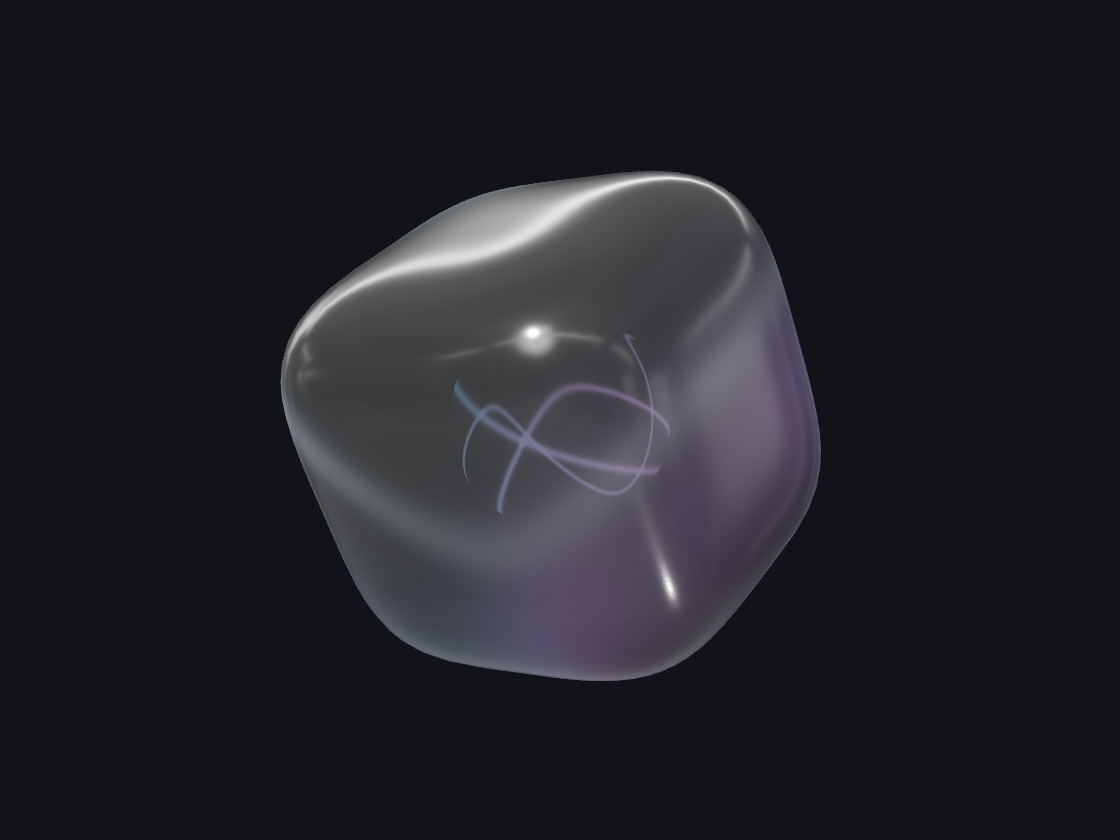
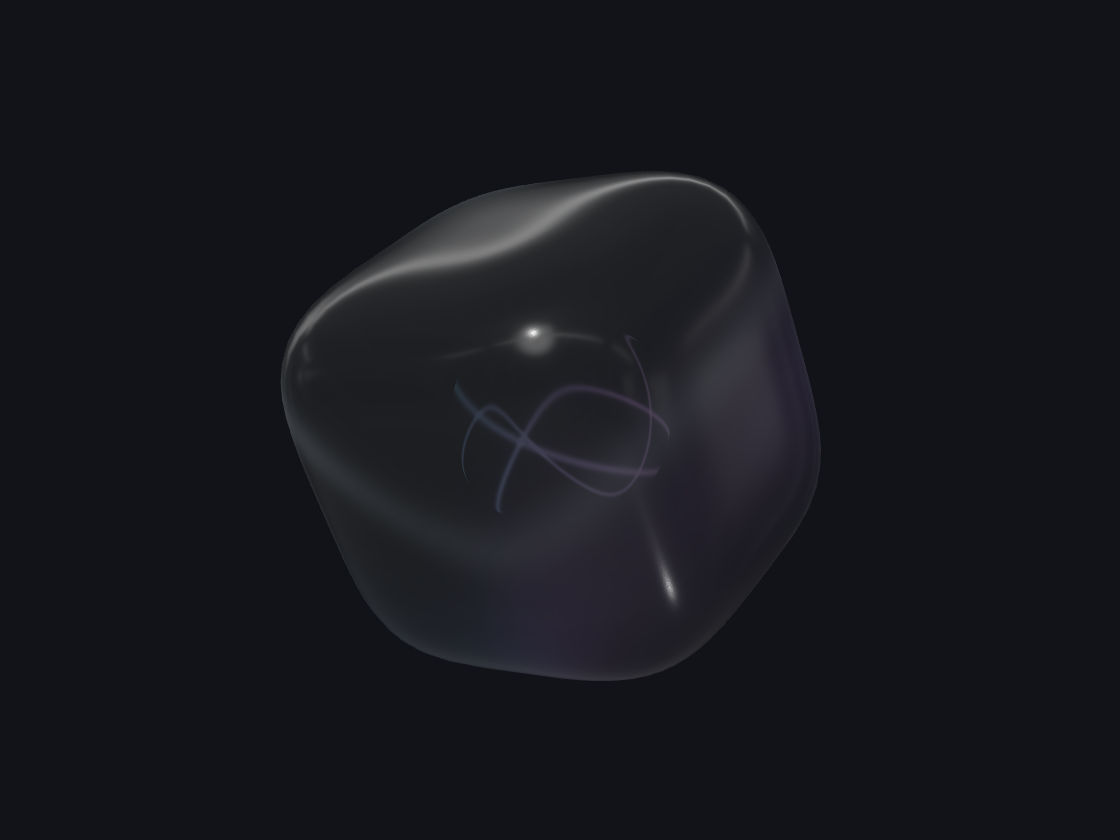
fix: make glass clearer and refresh README previews

Changed region(s): [[0.25, 0.1857, 0.75, 0.8357]]

diff --git a/Tests/TCubeTests/GlassRenderPreviewTests.swift b/Tests/TCubeTests/GlassRenderPreviewTests.swift
@@ -123,7 +123,8 @@ struct GlassRenderPreviewTests {
         let darkCenter = try #require(idleBitmap.colorAt(x: idleBitmap.pixelsWide / 2, y: idleBitmap.pixelsHigh / 2)?.usingColorSpace(.sRGB))
         let lightCenter = try #require(lightBitmap.colorAt(x: lightBitmap.pixelsWide / 2, y: lightBitmap.pixelsHigh / 2)?.usingColorSpace(.sRGB))
         let backdropResponse = ((lightCenter.redComponent - darkCenter.redComponent) + (lightCenter.greenComponent - darkCenter.greenComponent) + (lightCenter.blueComponent - darkCenter.blueComponent)) / 3
-        #expect(backdropResponse > 0.45, "The glass must reveal its backdrop instead of becoming an opaque pearl")
+        print("Glass center backdrop response: \(backdropResponse)")
+        #expect(backdropResponse > 0.70, "The glass center must clearly reveal the backdrop while retaining its silhouette")
         try #require(lightBitmap.representation(using: .png, properties: [:])).write(to: output.appendingPathComponent("soft-body-idle-light.png"))
 
         view.environment.background = .color(galleryBackground)

diff --git a/Sources/TCube/CrystalAppearance.swift b/Sources/TCube/CrystalAppearance.swift
@@ -22,6 +22,8 @@ final class CubeAura {
 
     init(parent: Entity, appearance: CubeAppearance) {
         root.name = "cube-aura"
+        // Fade only optical layers; launcher decals are siblings and stay crisp.
+        root.components.set(OpacityComponent(opacity: 0.25))
         parent.addChild(root)
         if let mesh = Self.mesh {
             var glass = PhysicallyBasedMaterial()

diff --git a/README.md b/README.md
@@ -2,11 +2,13 @@
 
 **English** | [简体中文](README-CN.md)
 
-A floating, softly rounded glass launcher for your favorite Mac apps and folders. Scroll to turn it, hover to reveal your icons, and click to launch.
+A transparent glass launcher that floats on your Mac desktop. Keep favorite apps and folders in one softly rounded shape. Scroll to turn it, hover to reveal your icons, and click to launch.
 
 **macOS 15+ · Swift 6 · AppKit / SwiftUI / RealityKit · No third-party dependencies**
 
 ## Preview
+
+A lighter glass shell lets the desktop show through. Hover to reveal icons that follow its curved surface.
 
 <p align="center">
   <img src="docs/images/cube-hover.png" width="760" alt="T-Cube showing app icons around a softly rounded glass body against a graphite background">
@@ -20,15 +22,16 @@ A floating, softly rounded glass launcher for your favorite Mac apps and folders
 </table>
 
 <details>
-<summary>Watch the hover and light animation</summary>
-<p align="center"><img src="docs/images/cube-motion.gif" width="760" alt="Icons appear on hover while the glass highlights keep moving"></p>
+<summary>Watch idle rotation pause on hover</summary>
+<p align="center"><img src="docs/images/cube-motion.gif" width="760" alt="The cube rotates at rest, pauses and reveals icons on hover, then resumes when the pointer leaves"></p>
 </details>
 
 Native app renders with sample system icons, enlarged for detail. All previews share the same graphite background, camera, and viewport.
 
 ## Features
 
-- **Six groups, four shortcuts each.** Add local apps or folders; empty slots stay blank. A softly rounded glass body with shallower faces replaces sharp edges and separate face plates; icons wrap around its surface, with matching curved hit areas.
+- **Light, transparent glass.** Soft corners, shallow curved faces, subtle reflections, and crisp icons that wrap around the surface.
+- **Six groups, four shortcuts each.** Add local apps or folders; empty slots stay blank. Click areas follow the curved icons.
 - **Free rotation and positioning.** Scroll in either direction; the cube stays where you stop while hovered. Drag with either mouse button to move it.
 - **Quick placement.** Put the cube in any corner or the center of its screen from the menu bar or Appearance settings. Positions save immediately, with room for the menu bar and Dock.
 - **Wandering idle rotation.** Slowly drift through changing directions; hover to stop instantly and leave to resume. Disable it under **Appearance → Dynamic rotation (动态旋转)**. Reduce Motion pauses it automatically.
@@ -39,7 +42,7 @@ Native app renders with sample system icons, enlarged for detail. All previews s
 
 ## Install and run
 
-Current version: **0.12.2**. Use the **master** branch.
+Current version: **0.12.3**. Use the **master** branch.
 
 Running requires macOS 15+. Building requires full Xcode with Swift 6 and the **macOS 27 SDK**. Current local packages target Apple Silicon and use ad-hoc signing; they are not notarized.
 
@@ -50,7 +53,7 @@ bash scripts/build-app.sh
 open build/T-Cube.app
 ```
 
-For a drag-to-install disk image, run `bash scripts/build-dmg.sh`, open `build/T-Cube-0.12.2.dmg`, and drag the app into **Applications**. Quit an existing version before updating and keep its configuration. Build artifacts are not included in the repository; macOS security approvals remain with the user.
+For a drag-to-install disk image, run `bash scripts/build-dmg.sh`, open `build/T-Cube-0.12.3.dmg`, and drag the app into **Applications**. Quit an existing version before updating and keep its configuration. Build artifacts are not included in the repository; macOS security approvals remain with the user.
 
 ### Let an agent install it
 
@@ -66,10 +69,12 @@ Settings open on first launch. Reopen them by right-clicking the cube or using i
 
 1. In **Cube entries (立方体入口)**, assign apps or folders to each face. Finder drag-and-drop is also supported.
 2. In **Appearance (外观)**, choose themes, materials, cycling, and hover size. Click **Apply settings (应用设置)** to save.
-3. To launch directly, disable **Expand faces on click (点击面展开放大)** under **Launch behavior (打开方式)**. Blank areas and empty slots do nothing.
+3. To launch directly, disable **Expand faces on click (点击面展开放大)** under **Launch behavior (打开方式)**, then click **Apply settings (应用设置)**. Blank areas and empty slots do nothing.
+4. Use **Quick placement (快捷位置)** in the menu bar or Appearance to move to a corner or the screen center. Placement applies and saves immediately.
 
 | Action | Result |
 | --- | --- |
+| Hover / leave | Reveal / hide icons; pause / resume idle rotation when enabled |
 | Two-finger horizontal / vertical scroll | Rotate along the corresponding axis; stop without snapping |
 | Mouse wheel / Shift + wheel | Rotate vertically / horizontally |
 | Left- or right-button drag | Move and save the floating position |
@@ -96,9 +101,9 @@ git diff --check
 Regenerate the native previews, including the matching `readme-*` gallery:
 
 ```bash
-env TCUBE_RENDER_PREVIEWS=1 swift test --scratch-path .build/tests --filter GlassRenderPreviewTests
+env TCUBE_RENDER_PREVIEWS=1 swift test --scratch-path .build/tests --filter 'GlassRenderPreviewTests|IconEdgeRenderingTests'
 ```
 
-Files are written to `.build/glass-previews/` using an isolated temporary configuration. Multi-background QA captures are generated separately from the README gallery.
+Files are written to `.build/glass-previews/` using an isolated temporary configuration. Multi-background transparency checks and icon-edge checks are generated separately from the README gallery.
 
 `Sources/CubeCore` owns configuration, geometry, and hit testing; `Sources/TCube` owns windows, rendering, and native UI. See [AGENTS.md](AGENTS.md) for contribution guidelines and [verification records](docs/verification/) for checks and limitations.

diff --git a/README-CN.md b/README-CN.md
@@ -2,11 +2,13 @@
 
 [English](README.md) | **简体中文**
 
-把常用 App 和文件夹放进一个悬浮在桌面的圆润玻璃体。滚动切换六组入口，悬停显示图标，点击打开。
+把常用 App 和文件夹放进一个悬浮在桌面的通透玻璃体。滚动切换六组入口，悬停显示图标，点击打开。
 
 **macOS 15+ · Swift 6 · AppKit / SwiftUI / RealityKit · 无第三方依赖**
 
 ## 效果预览
+
+玻璃外壳、反光与光晕更轻，让桌面背景清晰透出。悬停后，图标沿曲面显示。
 
 <p align="center">
   <img src="docs/images/cube-hover.png" width="760" alt="深石墨色背景下的 T-Cube，圆润透明玻璃体周围展示应用图标">
@@ -20,15 +22,16 @@
 </table>
 
 <details>
-<summary>查看悬停与流光动效</summary>
-<p align="center"><img src="docs/images/cube-motion.gif" width="760" alt="悬停时显示应用图标，玻璃高光持续流动"></p>
+<summary>查看自动旋转与悬停暂停</summary>
+<p align="center"><img src="docs/images/cube-motion.gif" width="760" alt="静置时自动旋转，悬停暂停并显示图标，移出后继续旋转"></p>
 </details>
 
 以上为应用自身的原生渲染，使用系统示例图标并放大展示细节。所有预览统一使用深石墨色背景、相机角度和画面尺寸。
 
 ## 主要功能
 
-- **六组入口，每组四个快捷方式**：支持本地 App 和文件夹，空位留白。外形采用较平缓的弧面与圆角，不强调棱边或六个面；图标贴合曲面，点击区域同步弯曲。
+- **轻薄通透的玻璃外观**：圆角、平缓弧面和柔和反光，图标清晰地贴合表面。
+- **六组入口，每组四个快捷方式**：支持本地 App 和文件夹，空位留白，点击区域与曲面图标一致。
 - **自由旋转与移动**：双向滚动旋转，悬停时滚哪停哪；左右键均可拖动位置。
 - **快捷放置**：从状态栏菜单或「外观 → 快捷位置」一键移到所在屏幕四角或正中央，立即保存，避开菜单栏与 Dock。
 - **空闲自动旋转**：缓慢、平滑地变换方向；移入立即停转，移出继续。在「外观 → 动态旋转」可关闭；系统开启「减少动态效果」时自动暂停。
@@ -39,7 +42,7 @@
 
 ## 安装与运行
 
-当前版本为 **0.12.2**，使用 **master** 分支。
+当前版本为 **0.12.3**，使用 **master** 分支。
 
 运行需要 macOS 15+；源码构建需要完整 Xcode、Swift 6 和 **macOS 27 SDK**。当前本地打包产物面向 Apple Silicon，使用 ad-hoc 签名，尚未公证。
 
@@ -50,7 +53,7 @@ bash scripts/build-app.sh
 open build/T-Cube.app
 ```
 
-需要拖拽安装时，运行 `bash scripts/build-dmg.sh`，打开 `build/T-Cube-0.12.2.dmg`，将应用拖入 **Applications**。更新前先退出旧版，保留原配置。构建产物不随源码提交；系统安全授权由用户确认。
+需要拖拽安装时，运行 `bash scripts/build-dmg.sh`，打开 `build/T-Cube-0.12.3.dmg`，将应用拖入 **Applications**。更新前先退出旧版，保留原配置。构建产物不随源码提交；系统安全授权由用户确认。
 
 ### 让 agent 帮忙安装
 
@@ -66,10 +69,12 @@ open build/T-Cube.app
 
 1. 在「立方体入口」为六个面添加应用或文件夹，也可从 Finder 拖入。
 2. 在「外观」选择主题、材质、轮换与悬停大小，点击「应用设置」保存。
-3. 想直接打开图标：在「打开方式」关闭「点击面展开放大」。空白和空槽不触发操作。
+3. 想直接打开图标：在「打开方式」关闭「点击面展开放大」，再点击「应用设置」保存。空白和空槽不触发操作。
+4. 从状态栏菜单或「外观 → 快捷位置」选择四角或正中央，立即生效并保存。
 
 | 操作 | 效果 |
 | --- | --- |
+| 鼠标移入／移出 | 显示／隐藏图标；自动旋转开启时暂停／继续旋转 |
 | 触控板双指左右／上下滑动 | 沿对应方向旋转，停止后保持姿态 |
 | 鼠标滚轮／Shift＋滚轮 | 上下／左右旋转 |
 | 左键或右键拖动 | 移动悬浮位置并保存 |
@@ -96,9 +101,9 @@ git diff --check
 重新生成原生效果图，包括统一风格的 `readme-*` 图集：
 
 ```bash
-env TCUBE_RENDER_PREVIEWS=1 swift test --scratch-path .build/tests --filter GlassRenderPreviewTests
+env TCUBE_RENDER_PREVIEWS=1 swift test --scratch-path .build/tests --filter 'GlassRenderPreviewTests|IconEdgeRenderingTests'
 ```
 
-输出位于 `.build/glass-previews/`，使用独立临时配置，不改动用户数据。多背景验证图与 README 展示图分别生成。
+输出位于 `.build/glass-previews/`，使用独立临时配置，不改动用户数据。多背景透明度验证、图标边缘检查与 README 展示图分别生成。
 
 `Sources/CubeCore` 管理配置、几何与命中逻辑；`Sources/TCube` 管理窗口、渲染与原生界面。贡献约定见 [AGENTS.md](AGENTS.md)，检查结果与限制见 [验证记录](docs/verification/)。

diff --git a/docs/verification/2026-10-27-clearer-glass.md b/docs/verification/2026-10-27-clearer-glass.md
@@ -1,0 +1,18 @@
+# Clearer glass — 0.12.3 (build 23)
+
+## Change
+
+The optical root now has 0.25 opacity, fading the glass shell, reflection, theme color and inner light together. Launcher decals are siblings of that root and retain their own full opacity. The shallower shape, curved hit areas, rotation, placement and stored configuration are unchanged.
+
+Both READMEs describe the lighter appearance and latest interactions. Their matched native gallery is refreshed, and the GIF now demonstrates idle rotation, hover pause and resumption. Installation commands and short agent prompts continue to use `master`.
+
+## Verification
+
+- The native background-response requirement was strengthened from 0.45 to 0.70. The previous renderer failed at approximately 0.565; the final full run passed at approximately 0.724. This measures rendered backdrop response, not a claimed physical transmittance percentage.
+- `env TCUBE_RENDER_PREVIEWS=1 swift test --scratch-path .build/tests` passed: 4 XCTest cases, 44 native Swift Testing cases and 66 core cases. The white-icon control still reported zero dark-fringe pixels. Full output is in `.build/verification/clear-glass-tests.log`.
+- Native hover and idle captures were inspected. All four README assets are 1120×840 with a matching graphite background. The movement GIF comes from the real running scene, with pose checks during hover pause.
+- Both README link sets, version references and master installation commands were verified.
+- `bash scripts/build-app.sh`, `bash scripts/build-dmg.sh --skip-build`, `bash scripts/verify-dmg.sh` and `git diff --check` passed. The installer app, executable, signature and installation links were verified.
+- Read-only review confirmed that root opacity persists through material updates and does not affect icon decals or interaction geometry.
+
+The release also includes the earlier reviewed idle rotation, quick placement, soft shell, curved icons and texture-edge fixes that were developed after the last master update. Native captures use temporary stores and are distinct from desktop automation. No user configuration migration is required.
